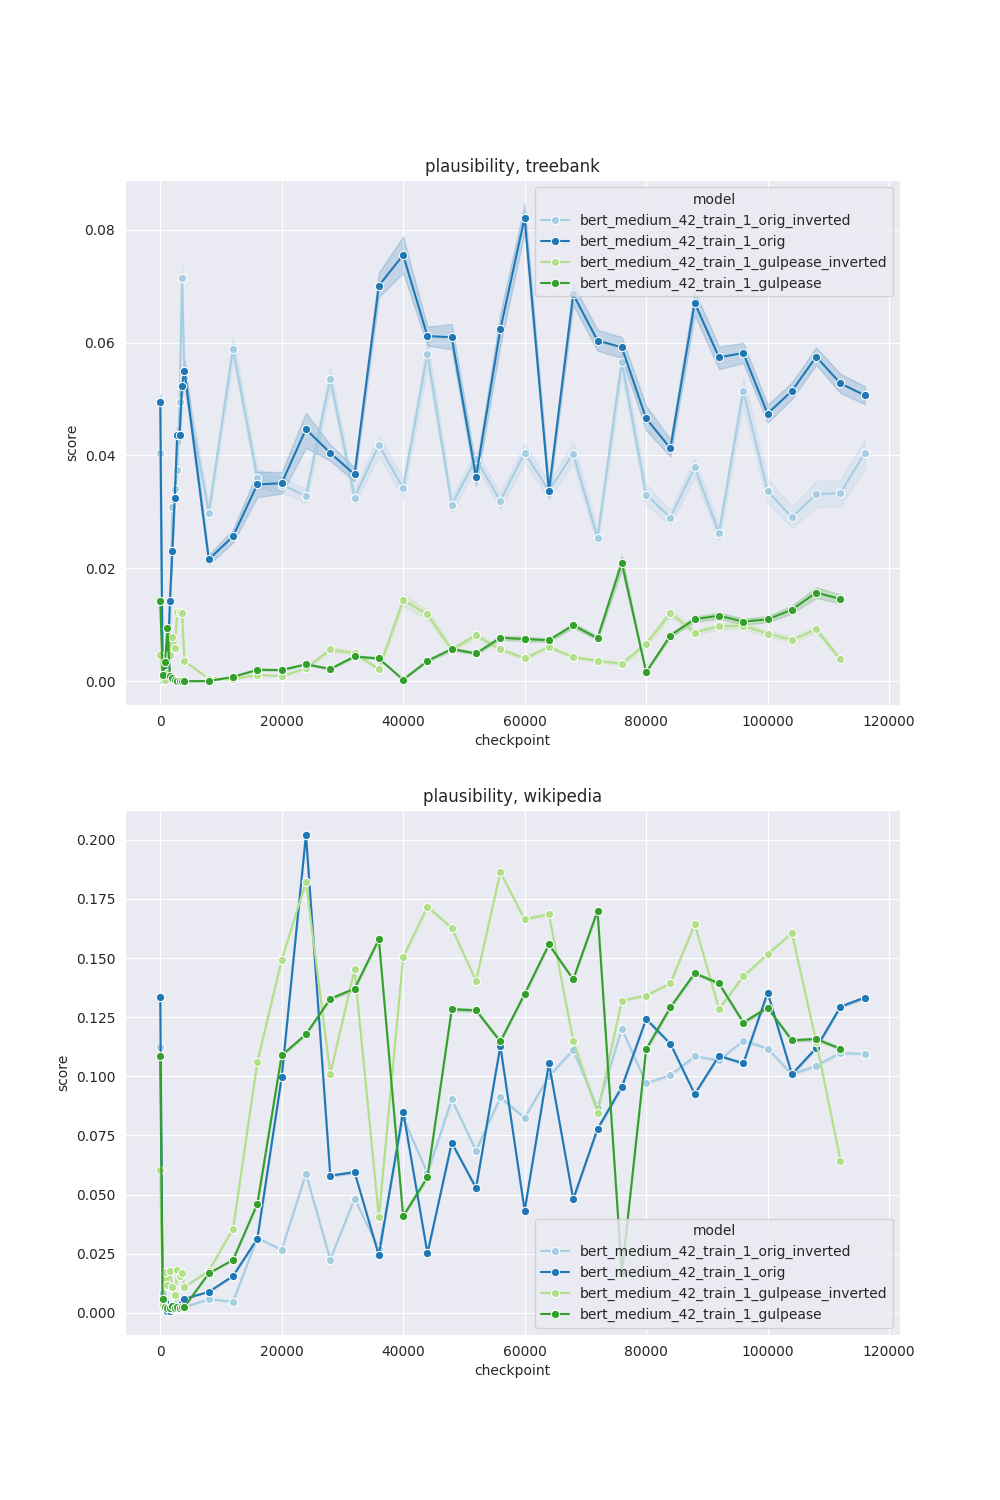
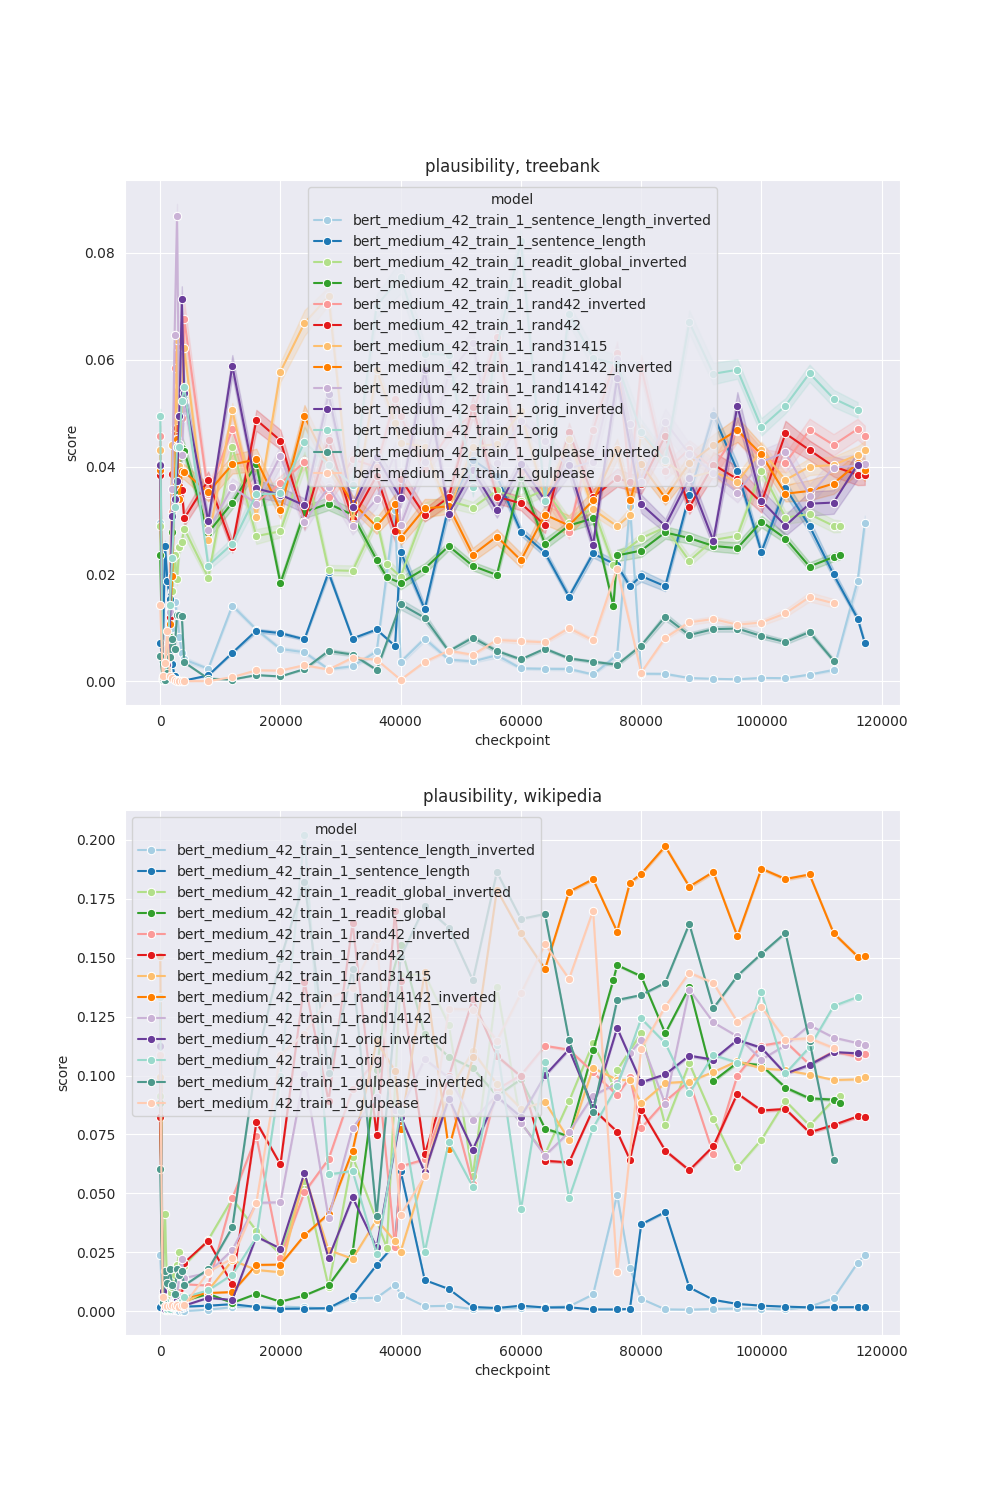
added colors to palette

diff --git a/scripts/eval/perplexity_eval.py b/scripts/eval/perplexity_eval.py
@@ -1,3 +1,4 @@
+from utils import get_seaborn_palette
 import matplotlib.pyplot as plt
 import seaborn as sns
 import pandas as pd
@@ -21,36 +22,39 @@ def add_to_res_dict(res_dict, model, checkpoint, metric, score, dataset):
     res_dict['dataset'].append(dataset)
 
 
-def load_perplexity_df(src_dir, model_size):
+def load_perplexity_df(src_dir, model_size, average_random=False):
     res_dict = {'model': [], 'checkpoint':[], 'metric': [], 'score':[], 'dataset':[]}
     for dataset in ['wikipedia', 'treebank']:
-        for model_name in os.listdir(src_dir):
+        dataset_dir = os.path.join(src_dir, dataset)
+        for model_name in os.listdir(dataset_dir):
             if model_size not in model_name:
                 continue
-            model_dir = os.path.join(src_dir, dataset, model_name)
+            model_dir = os.path.join(dataset_dir, model_name)
             for checkpoint_file_name in os.listdir(model_dir):
                 
                 checkpoint_num = int(checkpoint_file_name.split('-')[-1][:-4])
                 checkpoint_path = os.path.join(model_dir, checkpoint_file_name)
 
                 plausibility, perplexity = score_model(checkpoint_path)
+                if '_rand' in model_name or 'orig' in model_name:
+                    if average_random:
+                        model_name = 'random'
                 for pl, pp in zip(plausibility, perplexity):
                     add_to_res_dict(res_dict, model_name, checkpoint_num, 'plausibility', pl, dataset)
                     add_to_res_dict(res_dict, model_name, checkpoint_num, 'perplexity', pp, dataset)        
     return pd.DataFrame.from_dict(res_dict)
 
 def plot_results(res_df, output_path, min_checkpoint=None):
+    ordered_models = sorted(res_df['model'].unique().tolist(), reverse=True)
+    palette = get_seaborn_palette(len(ordered_models))
     for metric in sorted(list(res_df['metric'].unique())):
         metric_df = res_df[res_df['metric'] == metric]
         if min_checkpoint is not None:
             metric_df = metric_df[metric_df['checkpoint'] >= min_checkpoint]
-        ordered_models = sorted(res_df['model'].unique().tolist(), reverse=True)
-
         _, axes = plt.subplots(2, 1, figsize=(10, 15))
-
         for idx, dataset in enumerate(['treebank', 'wikipedia']):
             dataset_df = metric_df[metric_df['dataset'] == dataset]
-            sns.lineplot(data=dataset_df, x='checkpoint', y='score', hue='model', hue_order=ordered_models, palette='Paired', marker='o', legend=True, ax=axes[idx])
+            sns.lineplot(data=dataset_df, x='checkpoint', y='score', hue='model', hue_order=ordered_models, palette=palette, marker='o', legend=True, ax=axes[idx])
             axes[idx].set_title(f'{metric}, {dataset}')
         plt.savefig(f'{output_path}_{metric}.png') 
         plt.show()
@@ -60,10 +64,11 @@ def main():
     parser = argparse.ArgumentParser()
     parser.add_argument('-m', '--model_size', type=str, choices=['small', 'medium', 'base'])
     parser.add_argument('-o', '--output_path', type=str)
+    parser.add_argument('-a', '--average_random', action='store_true')
     args = parser.parse_args()
 
     src_dir = 'data/perplexity/'
-    res_df = load_perplexity_df(src_dir, args.model_size)
+    res_df = load_perplexity_df(src_dir, args.model_size, average_random=args.average_random)
     plot_results(res_df, args.output_path)
 
 if __name__ == '__main__':

diff --git a/scripts/eval/probing_eval.py b/scripts/eval/probing_eval.py
@@ -1,3 +1,4 @@
+from utils import get_seaborn_palette
 from scipy.stats import spearmanr
 import matplotlib.pyplot as plt
 import seaborn as sns
@@ -31,6 +32,7 @@ def load_res_df(src_dir, res_df):
     res_dict = {'model': [], 'checkpoint':[], 'feature': [], 'layer':[], 'score':[]}
 
     for model_name in os.listdir(src_dir):
+        print(model_name)
         model_dir = os.path.join(src_dir, model_name)
         for checkpoint_dir_name in sorted(os.listdir(model_dir)):
             checkpoint_num = int(checkpoint_dir_name.split('-')[-1])
@@ -53,7 +55,7 @@ def load_res_df(src_dir, res_df):
 
 def print_features_scores(res_df, output_path, legend_path=None, max_checkpoint=None):
     sorted_models = sorted(list(res_df['model'].unique()), reverse=True)
-
+    palette = get_seaborn_palette(len(sorted_models))
     if max_checkpoint is not None:
         res_df = res_df[res_df['checkpoint'] <= max_checkpoint]
         
@@ -69,7 +71,7 @@ def print_features_scores(res_df, output_path, legend_path=None, max_checkpoint=
             vmin = res_df[res_df['feature'] == feature]['score'].min()
             vmax = res_df[res_df['feature'] == feature]['score'].max()
             feature_df = res_df[(res_df['feature'] == feature) & (res_df['layer'] == layer)]
-            sns.lineplot(data=feature_df, x='checkpoint', y='score', hue='model', marker='o', hue_order=sorted_models, palette='Paired', ax=axes[feat_idx][layer_idx], legend=False)
+            sns.lineplot(data=feature_df, x='checkpoint', y='score', hue='model', marker='o', hue_order=sorted_models, palette=palette, ax=axes[feat_idx][layer_idx], legend=False)
             axes[feat_idx][layer_idx].set_title(f'{feature}, layer {layer}')
             for layer_idx in range(len(layers)):
                 axes[feat_idx][layer_idx].set_ylim(vmin-0.05, vmax+0.05)
@@ -79,7 +81,7 @@ def print_features_scores(res_df, output_path, legend_path=None, max_checkpoint=
 
     if legend_path is not None:
         # legend
-        legend_plot = sns.lineplot(data=feature_df, x='checkpoint', y='score', hue='model', marker='o', hue_order=sorted_models, palette='Paired')
+        legend_plot = sns.lineplot(data=feature_df, x='checkpoint', y='score', hue='model', marker='o', hue_order=sorted_models, palette=palette)
         handles, labels = legend_plot.get_legend_handles_labels()
         plt.close()
         plt.figure()
@@ -92,6 +94,7 @@ def print_features_scores(res_df, output_path, legend_path=None, max_checkpoint=
 
 def load_computed_correlations(src_path):
     if os.path.exists(src_path):
+        print('Loaded correlations.')
         return pd.read_csv(src_path, index_col=0)
     else:
         return pd.DataFrame(['model', 'checkpoint', 'feature', 'layer', 'score'])
@@ -108,6 +111,7 @@ def main():
     already_computed_df = load_computed_correlations(args.correlations_path)
     res_df = load_res_df(args.input_directory, already_computed_df)
     res_df.to_csv(args.correlations_path)
+    print('Computing plot')
     print_features_scores(res_df, args.output_path, args.legend_path, max_checkpoint=None)
 
 if __name__ == '__main__':

diff --git a/scripts/eval/utils.py b/scripts/eval/utils.py
@@ -1,3 +1,4 @@
+import seaborn as sns
 import json
 import os
 
@@ -6,3 +7,15 @@ def get_last_checkpoint(model_dir):
     with open(trainer_state_path, 'r') as src_file:
         trainer_state = json.load(src_file)
     return trainer_state['max_steps']
+
+
+def get_seaborn_palette(num_colors):
+    paired_palette = sns.color_palette("Paired", 10)
+    extra_colors = [
+        (0.6, 0.85, 0.8), (0.3, 0.6, 0.55),     # Light and dark seafoam
+        (1.0, 0.8, 0.7), (0.85, 0.45, 0.3),     # Light peach and deep terracotta
+        (0.8, 0.75, 0.9), (0.6, 0.5, 0.75),     # Light and dark lavender
+    ]
+
+    extended_palette = paired_palette + extra_colors[:num_colors-10]
+    return extended_palette
